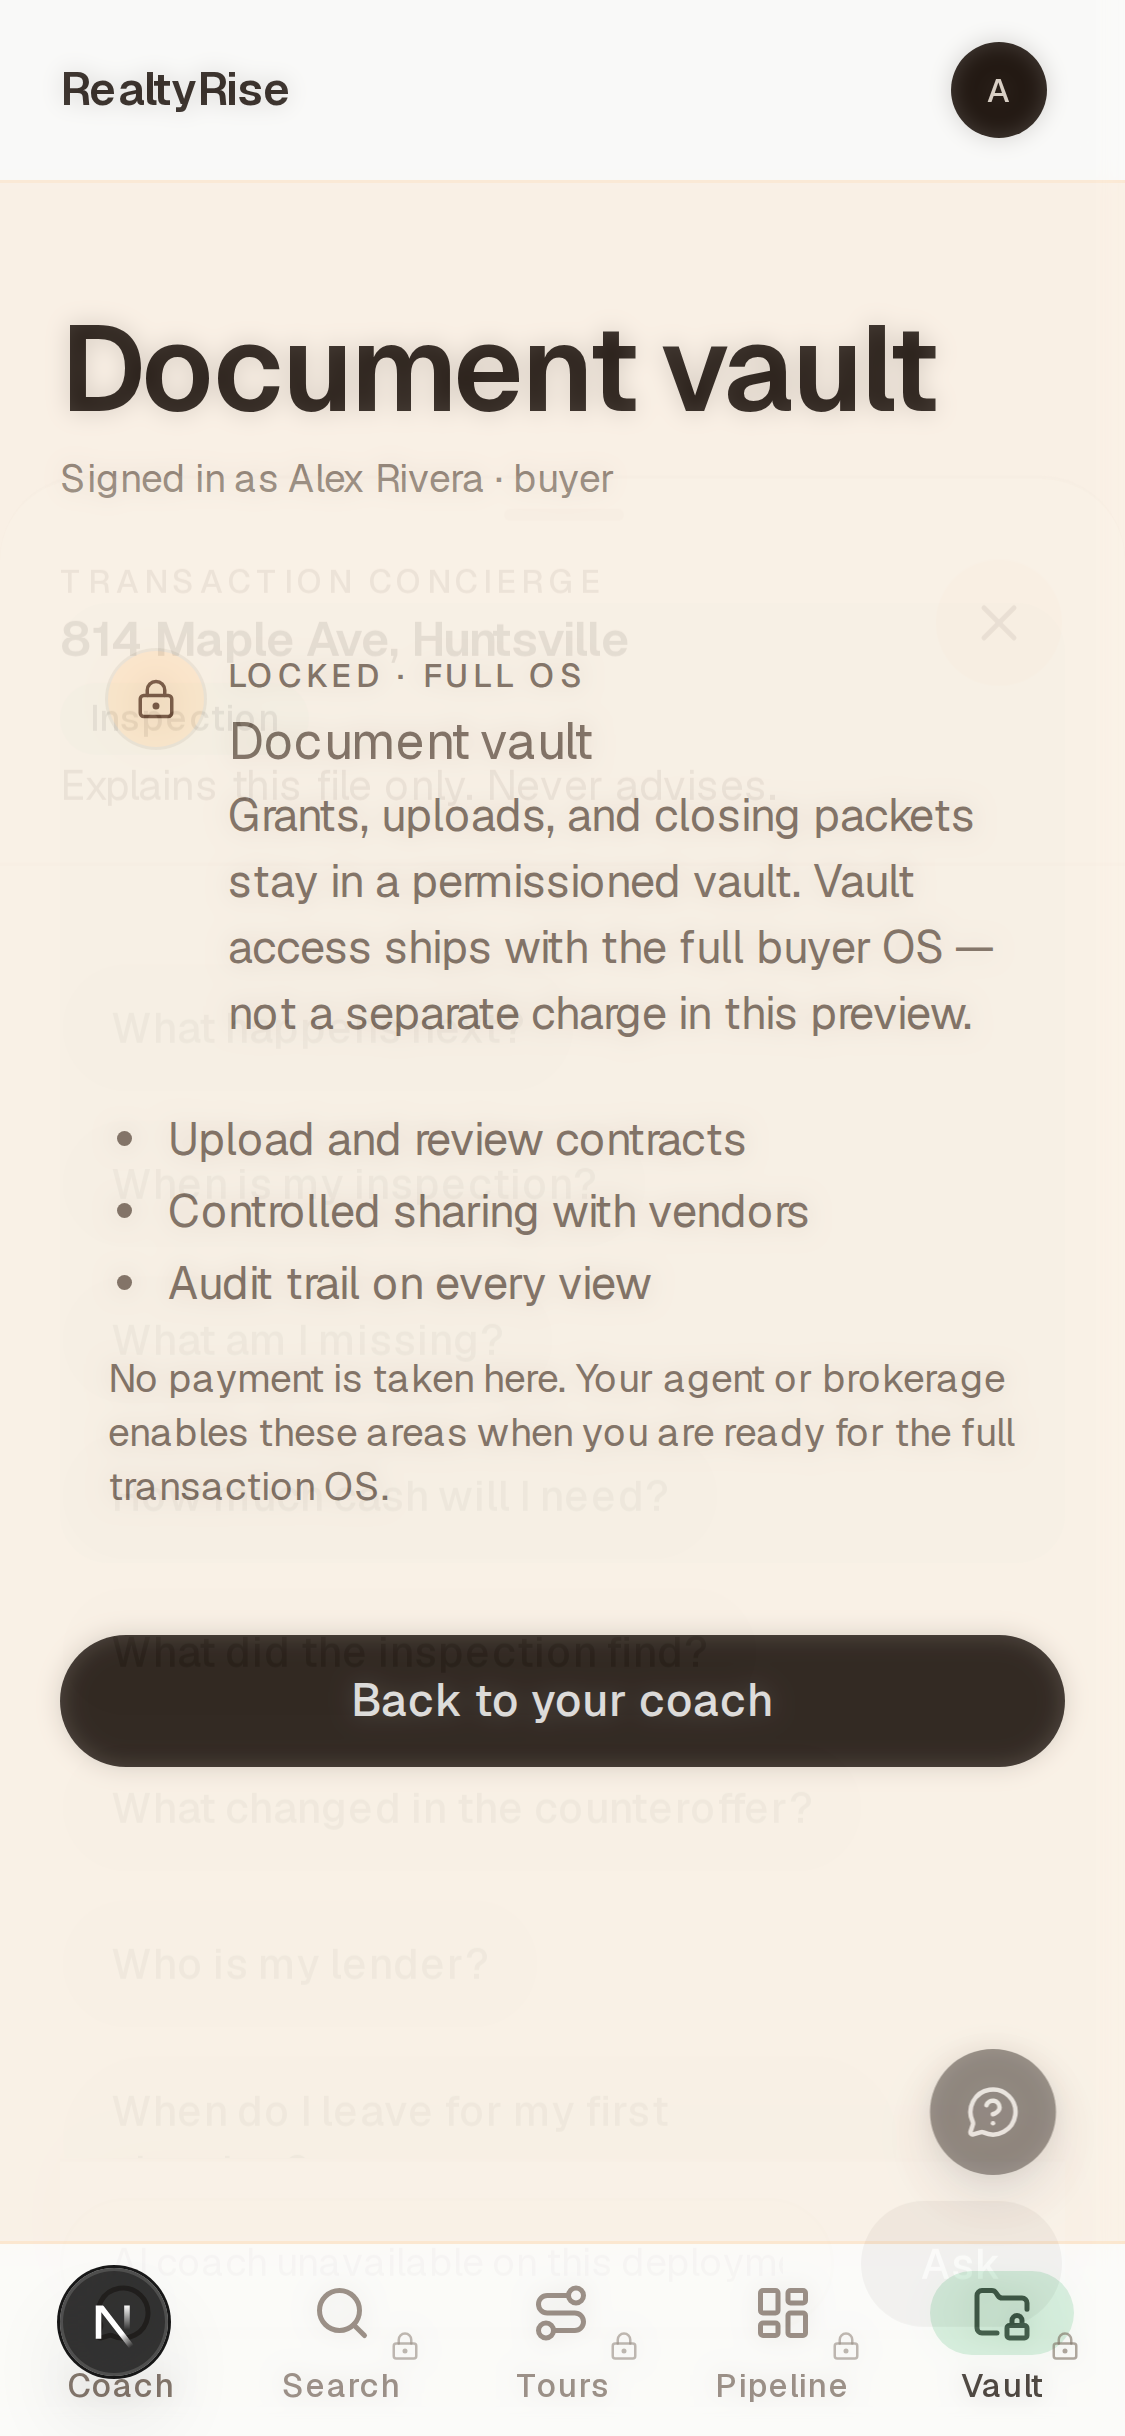
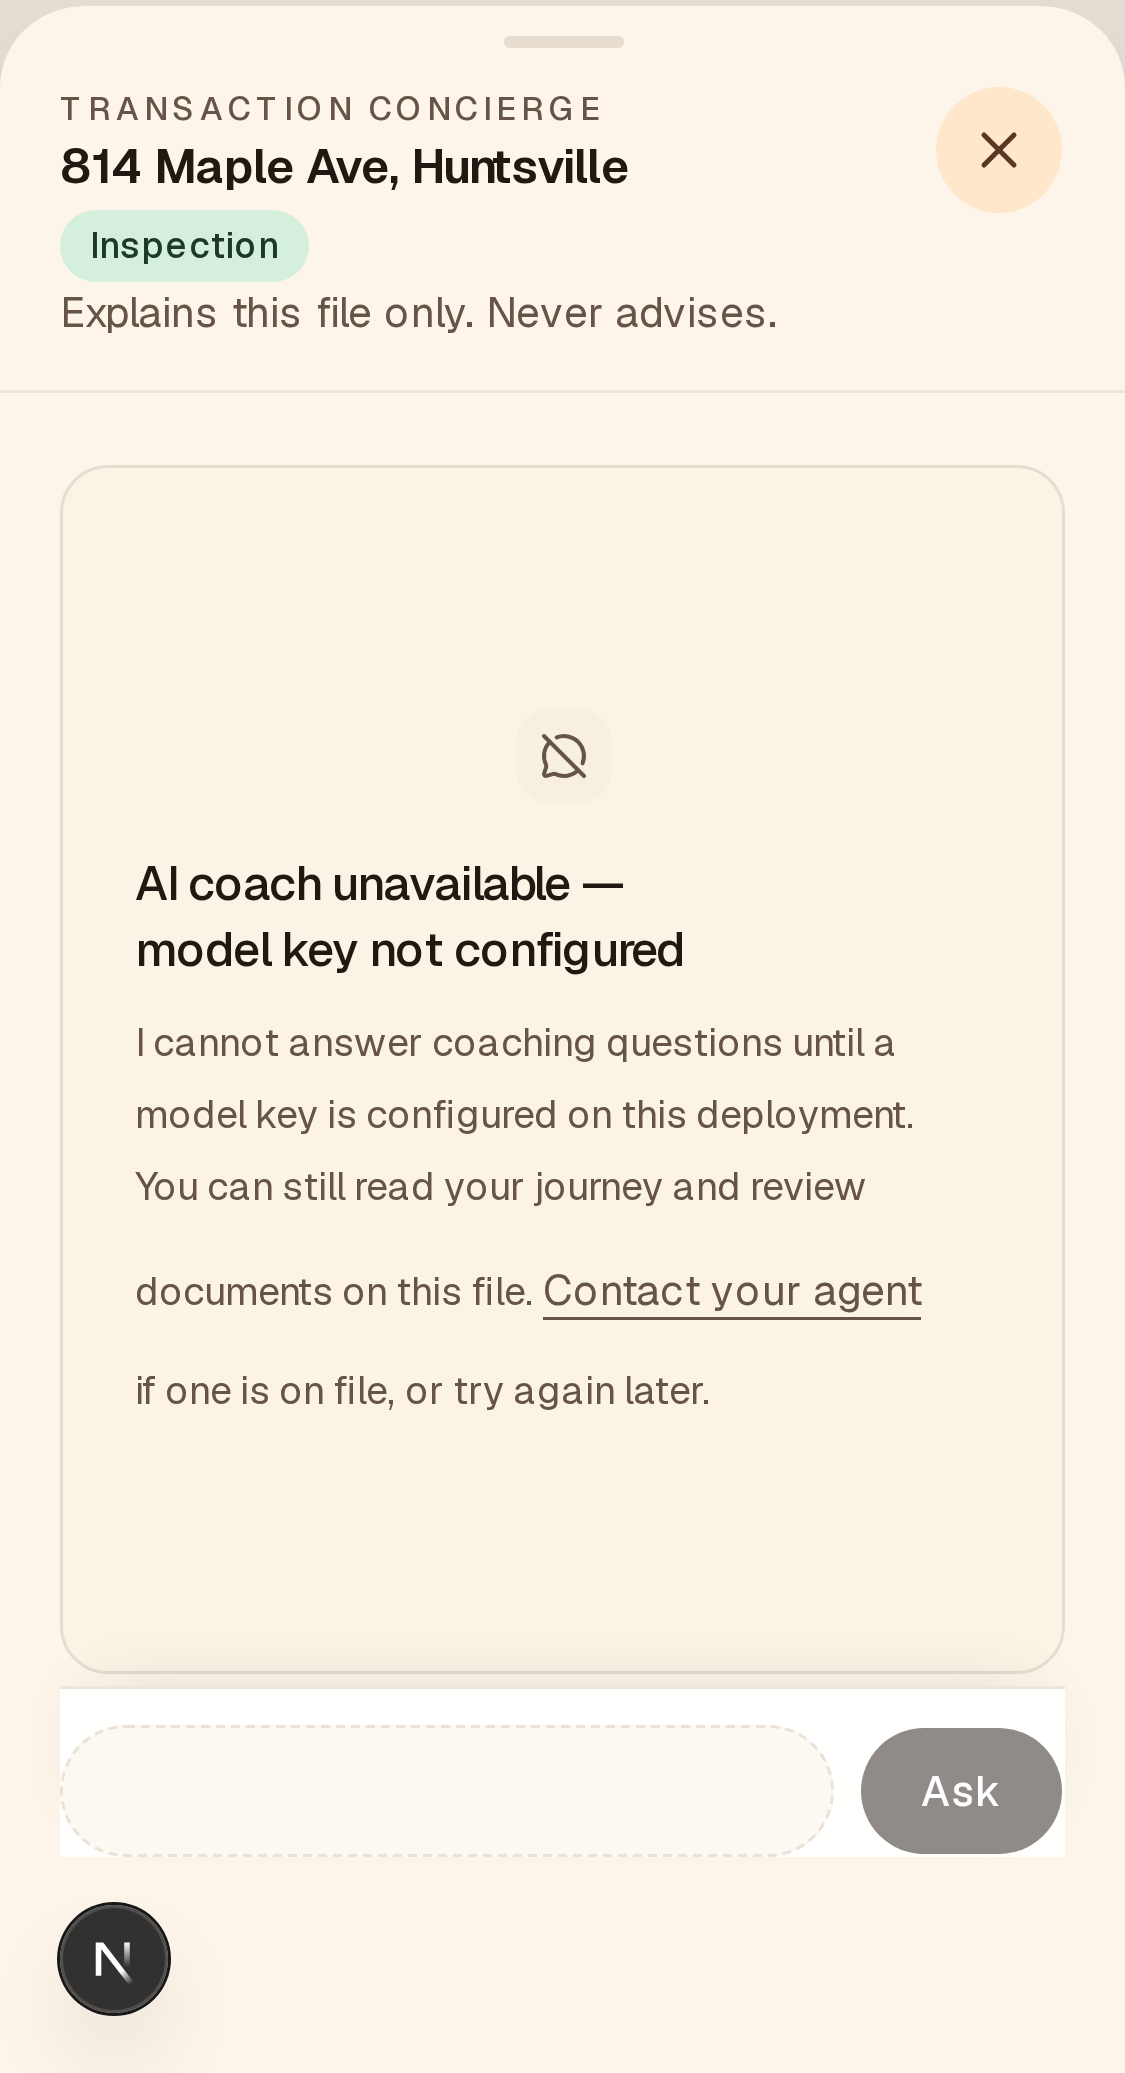
fix(concierge): unavailable EmptyState primary @375, sheet proof
Hide chips and compose placeholder when model key missing; dedicated
unavailable layout with EmptyState in viewport. Re-capture coach card and
concierge sheet element screenshots for proofs.

diff --git a/src/components/concierge-chat.tsx b/src/components/concierge-chat.tsx
@@ -143,6 +143,58 @@ export function ConciergeChat({
     );
   }
 
+  const unavailableCompose = (
+    <div
+      className={cn(
+        "shrink-0 md:static",
+        "max-md:sticky max-md:z-10 max-md:-mx-5 max-md:bottom-[var(--coach-compose-clearance)] max-md:px-5 max-md:pb-[env(safe-area-inset-bottom)]",
+      )}
+      data-testid="concierge-compose"
+    >
+      <div
+        className="flex gap-2 border-t border-border/70 bg-card/95 pt-3 shadow-[0_-8px_24px_-12px_rgba(15,23,42,0.14)] backdrop-blur md:bg-card md:shadow-none md:backdrop-blur-none"
+        aria-hidden
+      >
+        <div
+          className="min-h-11 min-w-0 flex-1 rounded-full border border-dashed border-border/80 bg-muted/40 px-4 text-sm text-muted-foreground"
+        />
+        <Button
+          type="button"
+          data-testid="concierge-ask"
+          className="h-11 rounded-full px-5"
+          disabled
+          title={CHIP_DISABLED_REASON}
+        >
+          Ask
+        </Button>
+      </div>
+    </div>
+  );
+
+  if (coachUnavailable) {
+    return (
+      <section
+        data-testid="concierge"
+        data-concierge-availability={availability}
+        aria-label="Transaction concierge"
+        className={cn("flex min-h-0 flex-col", className)}
+      >
+        <div
+          className={cn(
+            "flex min-h-0 flex-1 flex-col overflow-y-auto py-3 max-md:py-2",
+            "max-md:pb-[var(--coach-compose-inset)]",
+          )}
+        >
+          <ConciergeUnavailableState
+            showAgentLink={showAgentLinkWhenUnavailable}
+            className="my-0 max-md:gap-3 max-md:py-5 max-md:[&_[data-slot=empty-title]]:text-base max-md:[&_[data-slot=empty-title]]:leading-snug max-md:[&_[data-slot=empty-description]]:text-small"
+          />
+        </div>
+        {unavailableCompose}
+      </section>
+    );
+  }
+
   const starterChips = (
     <div
       aria-label="Suggested questions"

diff --git a/e2e/concierge-fail-closed.spec.ts b/e2e/concierge-fail-closed.spec.ts
@@ -21,14 +21,14 @@ test.describe("concierge fail-closed @375", () => {
       "data-concierge-availability",
       "model_key_missing",
     );
-    await expect(page.getByTestId("concierge-unavailable")).toContainText(
-      UNAVAILABLE_TITLE,
-    );
+    const unavailable = page.getByTestId("concierge-unavailable");
+    await expect(unavailable).toBeVisible();
+    await expect(unavailable).toContainText(UNAVAILABLE_TITLE);
+    await expect(
+      page.getByLabel("Suggested questions"),
+    ).toHaveCount(0);
     await expect(page.getByTestId("concierge-ask")).toBeDisabled();
-    await expect(page.getByTestId("concierge-question")).toBeDisabled();
-
-    const chip = page.getByRole("button", { name: "What happens next?" });
-    await expect(chip).toBeDisabled();
+    await expect(page.getByTestId("concierge-question")).toHaveCount(0);
   });
 
   test("sheet chat shows the same unavailable state on vault", async ({
@@ -37,11 +37,13 @@ test.describe("concierge fail-closed @375", () => {
     await signInCoachUnavailable(page);
     await page.goto("/vault");
     await page.getByTestId("concierge-fab").click();
-    await expect(page.getByTestId("concierge-sheet")).toBeVisible();
-    await expect(page.getByTestId("concierge-unavailable")).toContainText(
-      UNAVAILABLE_TITLE,
-    );
-    await expect(page.getByTestId("concierge-ask")).toBeDisabled();
+    const sheet = page.getByTestId("concierge-sheet");
+    await expect(sheet).toBeVisible();
+    const unavailable = sheet.getByTestId("concierge-unavailable");
+    await expect(unavailable).toBeVisible();
+    await expect(unavailable).toContainText(UNAVAILABLE_TITLE);
+    await expect(sheet.getByLabel("Suggested questions")).toHaveCount(0);
+    await expect(sheet.getByTestId("concierge-ask")).toBeDisabled();
   });
 });
 

diff --git a/src/components/concierge-unavailable.tsx b/src/components/concierge-unavailable.tsx
@@ -41,7 +41,7 @@ export function ConciergeUnavailableState({
         </>
       }
       className={cn(
-        "border-solid bg-muted/30 text-left max-md:gap-2 max-md:py-4",
+        "border-solid bg-muted/30 text-left text-balance max-md:gap-2 max-md:py-4",
         className,
       )}
     />
